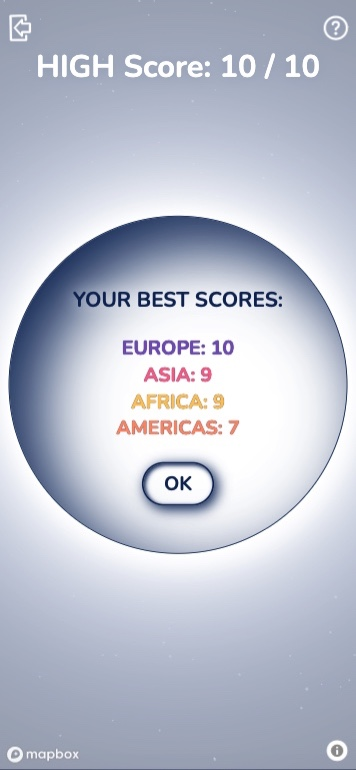
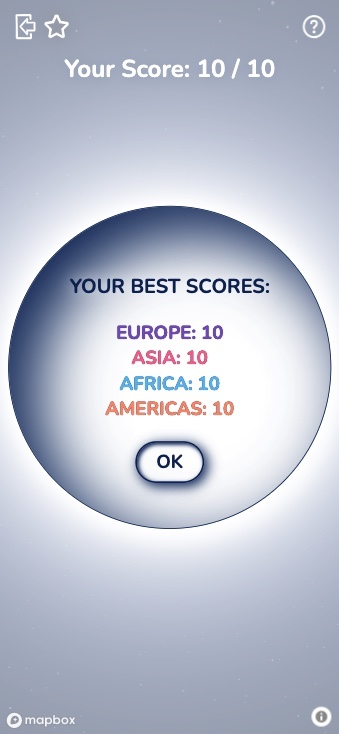
edit Scores section

diff --git a/README.md b/README.md
@@ -139,12 +139,18 @@ The player has to select the country that appears in the top. If the selection i
 
 ## Scores
 
-After 10 countries have been chosen, the score is displayed. For the first time, this is all the feedback the user is given but from the second round on, a `View your best scores here` button appears which can be clicked to display the user's best scores. The scores are stored in localStorage, so if the localStorage gets cleared, the highest scores would be lost.
-<br><br>
+After 10 countries have been chosen, the score is displayed. For the first time, this is all the feedback the user is given. 
+<br> 
 
 ![your-score](readme-images/your-score.jpeg)
+<br><br>
+From the second round on, at the end of the round, a `View your best scores here` button appears which can be clicked to display the user's best scores. From this time on, the best scores can be reached anytime throughout the game via the star icon. <br>
+<br>
+
+![high-score](readme-images/high-score.jpeg)
 ![best-scores](readme-images/best-scores.jpeg)
 <br><br>
+The scores are stored in localStorage, so if the localStorage gets cleared, the highest scores would be lost.
 <hr>
 
 ## Error pages
